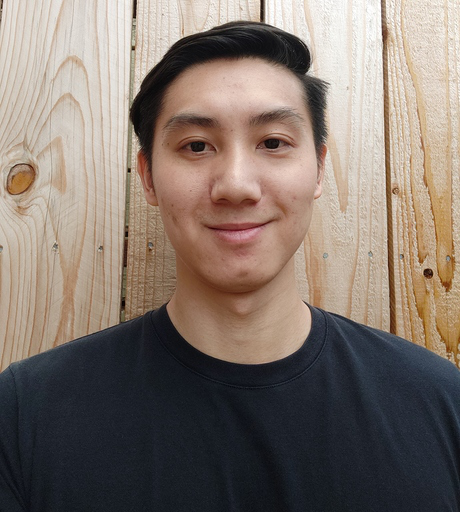
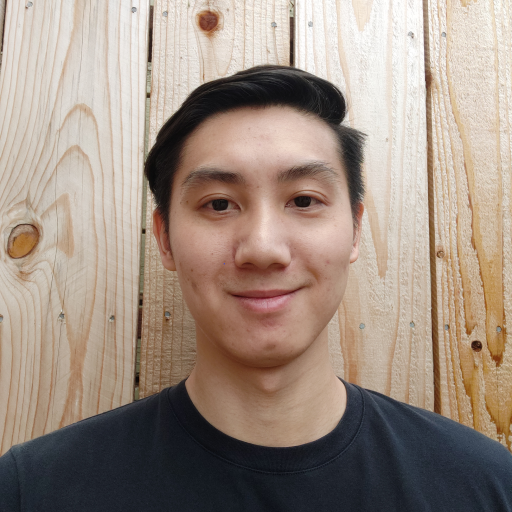
update about page to allow up 2 people per row

diff --git a/frontend/src/components/about/about.js b/frontend/src/components/about/about.js
@@ -1,82 +1,98 @@
 import React from 'react';
-import linkedIn from './linkedin.png'
-import github from './github.svg'
 import daniel from './daniel.png'
 import jose from './jose.png'
 import jason from './jason.png'
 import alvin from './alvin.png'
 import Back from '../back';
 import {withRouter} from 'react-router-dom';
+import LinkedInIcon from '@material-ui/icons/LinkedIn';
+import GitHubIcon from '@material-ui/icons/GitHub';
 
 const About = (props) => (
-  <div className="about">
-
-    <ul className="about-main-ul">
+  <>
+    <div className="about">
+      <ul className="about-main-ul">
         <img className="prof-pic" src={daniel} />
         <ul className="about-sub-ul">
-            <li className="about-name">Daniel Ackroyd-Isales</li>
-            <li className="about-role">insert role here</li>
-            <ul className="about-links-ul">
-                <li><a href="https://www.linkedin.com/in/daniel-ackroyd-isales/">
-                        <img src={linkedIn} alt="LinkedIn Link"/>
-                </a></li>
-                <li><a href="http://github.com/dackroydisales">
-                    <img src={github} alt="GitHub Link"/>
-                </a></li>
-            </ul>
+          <li className="about-name">Daniel Ackroyd-Isales</li>
+          <li className="about-role">insert role here</li>
+          <ul className="about-links-ul">
+            <li>
+              <a href="https://www.linkedin.com/in/daniel-ackroyd-isales/">
+                <LinkedInIcon className="about-icon" />
+              </a>
+            </li>
+            <li>
+              <a href="http://github.com/dackroydisales">
+                <GitHubIcon className="about-icon" />
+              </a>
+            </li>
+          </ul>
         </ul>
-    </ul>
+      </ul>
 
-    <ul className="about-main-ul">
+      <ul className="about-main-ul">
         <img className="prof-pic" src={jose} />
         <ul className="about-sub-ul">
-            <li className="about-name">Jose Gaston</li>
-            <li className="about-role">insert role here</li>
-            <ul className="about-links-ul">
-                <li><a href="https://www.linkedin.com/in/jose-maria-canuto-b-gaston-904411115/">
-                        <img src={linkedIn} alt="LinkedIn Link"/>
-                </a></li>
-                <li><a href="https://github.com/jmcbgaston">
-                    <img src={github} alt="GitHub Link"/>
-                </a></li>
-            </ul>
+          <li className="about-name">Jose Gaston</li>
+          <li className="about-role">insert role here</li>
+          <ul className="about-links-ul">
+            <li>
+              <a href="https://www.linkedin.com/in/jose-maria-canuto-b-gaston-904411115/">
+                <LinkedInIcon className="about-icon" />
+              </a>
+            </li>
+            <li>
+              <a href="https://github.com/jmcbgaston">
+                <GitHubIcon className="about-icon" />
+              </a>
+            </li>
+          </ul>
         </ul>
-    </ul>
+      </ul>
 
-    <ul className="about-main-ul">
+      <ul className="about-main-ul">
         <img className="prof-pic" src={jason} />
         <ul className="about-sub-ul">
-            <li className="about-name">Jason Zhen</li>
-            <li className="about-role">insert role here</li>
-            <ul className="about-links-ul">
-                <li><a href="https://www.linkedin.com/in/jazhen/">
-                        <img src={linkedIn} alt="LinkedIn Link"/>
-                </a></li>
-                <li><a href="https://github.com/jazhen">
-                    <img src={github} alt="GitHub Link"/>
-                </a></li>
-            </ul>
+          <li className="about-name">Jason Zhen</li>
+          <li className="about-role">insert role here</li>
+          <ul className="about-links-ul">
+            <li>
+              <a href="https://www.linkedin.com/in/jazhen/">
+                <LinkedInIcon className="about-icon" />
+              </a>
+            </li>
+            <li>
+              <a href="https://github.com/jazhen">
+                <GitHubIcon className="about-icon" />
+              </a>
+            </li>
+          </ul>
         </ul>
-    </ul>
+      </ul>
 
-    <ul className="about-main-ul">
+      <ul className="about-main-ul">
         <img className="prof-pic" src={alvin} />
         <ul className="about-sub-ul">
-            <li className="about-name">Alvin Chong</li>
-            <li className="about-role">insert role here</li>
-            <ul className="about-links-ul">
-                <li><a href="https://www.linkedin.com/in/alvin-chong-4b88011a1/">
-                        <img src={linkedIn} alt="LinkedIn Link"/>
-                </a></li>
-                <li><a href="https://github.com/alvinc90">
-                    <img src={github} alt="GitHub Link"/>
-                </a></li>
-            </ul>
+          <li className="about-name">Alvin Chong</li>
+          <li className="about-role">insert role here</li>
+          <ul className="about-links-ul">
+            <li>
+              <a href="https://www.linkedin.com/in/alvin-chong-4b88011a1/">
+                <LinkedInIcon className="about-icon" />
+              </a>
+            </li>
+            <li>
+              <a href="https://github.com/alvinc90">
+                <GitHubIcon className="about-icon" />
+              </a>
+            </li>
+          </ul>
         </ul>
-    </ul>
-
+      </ul>
+    </div>
     <Back history={props.history}/>
-  </div>
+  </>
 )
 
 export default withRouter(About);

diff --git a/frontend/src/css/about.css b/frontend/src/css/about.css
@@ -1,45 +1,22 @@
 .about {
-  margin: 0 auto;
-}
-
-.about-main-ul:not(:first-child) {
-   margin-top: 4rem;
-}
-
-.about-main-ul:first-child {
-  margin-top: 2rem;
+  display: flex;
+  flex-wrap: wrap;
+  justify-content: center;
 }
 
 .about-main-ul {
-  display: flex;
-  justify-content: center;
-}
-
-.prof-pic {
-  width: 40%;
-  height: 100%;
-  max-width: 250px;
-  border-radius: 15px;
-  margin-right: 5rem;
-  border: 2px solid #2C353A;
-}
-
-.about-sub-ul {
   flex: 1;
-  display: flex;
-  flex-direction: column;
-  justify-content: center;
+  margin-top: 2rem;
 }
 
 .about-links-ul {
   display: flex;
   justify-content: space-evenly;
-  margin: 28px 0;
 }
 
-.about-links-ul img {
-  width: 30px;
-  height: 30px;
+.prof-pic {
+  max-width: 198px;
+  border: 2px solid #2C353A;
 }
 
 .footer {
